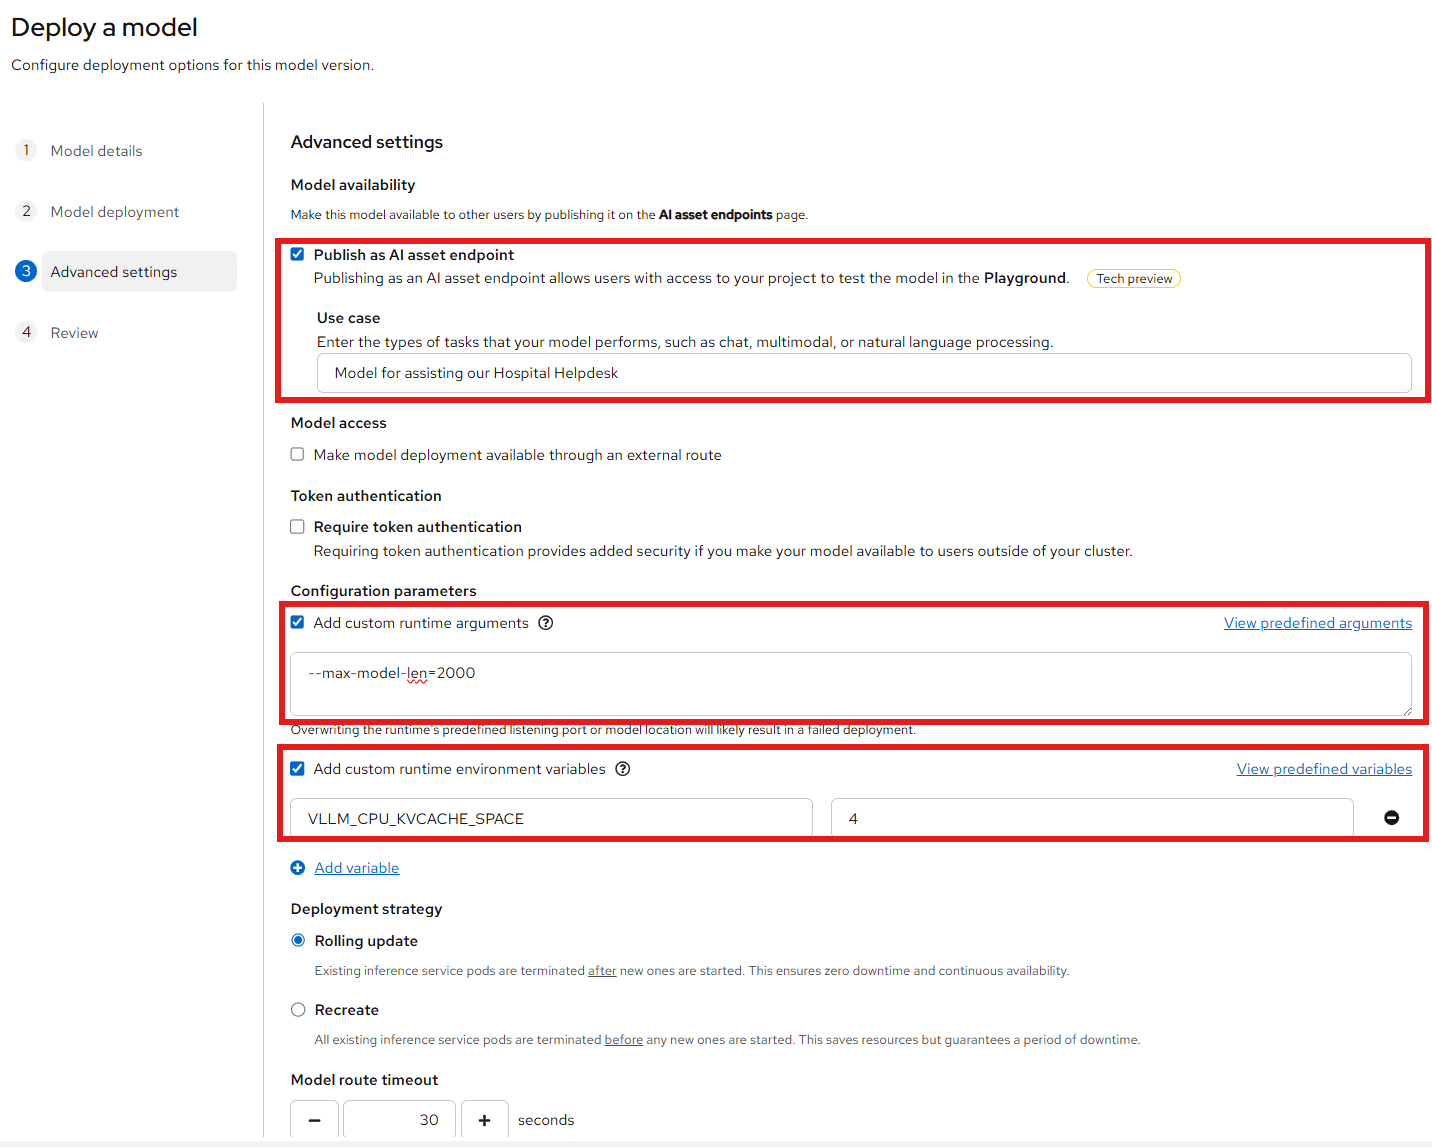
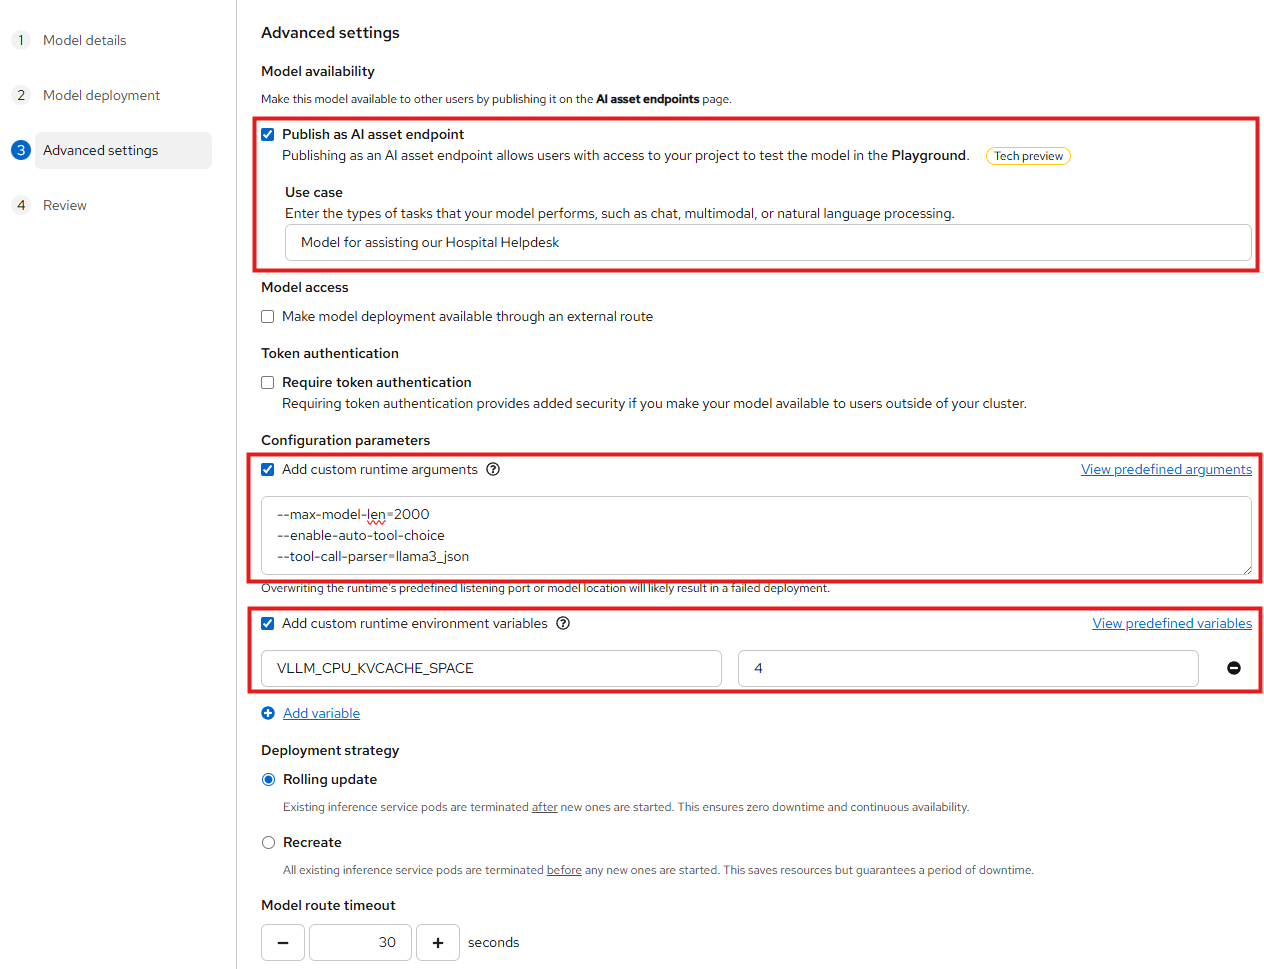
RAG wip

Changed region(s): [[0.0, 0.0, 1.0, 1.0], [0.0, 0.0929, 0.1234, 0.2477], [0.0309, 0.2786, 0.0617, 0.3096]]

diff --git a/pavilion_regulations.md b/pavilion_regulations.md
@@ -1,0 +1,183 @@
+
+# Pavilion Hospital - Standard Operating Procedures
+
+## Document ID: PH-SOP-EQUIP-001
+## Title: Medical Equipment Management & Incident Reporting
+## Version: 3.1
+## Date: 2026-07-21
+
+---
+
+### **Table of Contents**
+1.  **Introduction**
+    1.1. Purpose and Scope
+    1.2. Definitions
+    1.3. Roles and Responsibilities
+2.  **General Equipment Acquisition and Deployment**
+    2.1. New Equipment Request Protocol (NERP)
+    2.2. Vendor Selection and Vetting
+    2.3. Capital Expenditure Approval Process
+    2.4. Asset Tagging and Inventory Management
+    2.5. Initial Inspection and Burn-in Period
+3.  **Standard Usage Protocols**
+    3.1. User Authentication and Access Control
+    3.2. Pre-Use Inspection Checklist (PUIC)
+    3.3. Standard Sanitation Procedures Post-Use
+    3.4. Battery Management for Portable Devices
+4.  **Maintenance and Calibration**
+    4.1. Scheduled Preventative Maintenance (PM) Roster
+    4.2. Calibration Records and Standards (NIST Traceability)
+    4.3. Software and Firmware Update Policy
+    4.4. Unscheduled Maintenance Requests
+5.  **Faulty Equipment & Incident Reporting**
+    5.1. Immediate Actions for Faulty Equipment
+    5.2. **Procedure for Infusion Pumps**
+    5.3. Procedure for Diagnostic Imaging Equipment (X-Ray, MRI)
+    5.4. Procedure for Patient Monitoring Systems
+    5.5. Procedure for Surgical Equipment
+6.  **Decommissioning and Disposal**
+    6.1. End-of-Life (EOL) Assessment Criteria
+    6.2. Data Sanitization and Removal (HIPAA Compliance)
+    6.3. Safe Disposal and Recycling Procedures
+7.  **Appendix**
+    7.1. Contact List: Department Heads & On-Call Biomed Staff
+    7.2. Form: PH-FORM-INC-001 - Equipment Incident Report
+    7.3. Escalation Matrix for Critical Failures
+
+---
+
+### **1. Introduction**
+
+#### **1.1. Purpose and Scope**
+This document outlines the standard operating procedures (SOPs) for the lifecycle management of all medical equipment within Pavilion Hospital. This includes acquisition, deployment, usage, maintenance, incident reporting, and decommissioning. Adherence to these procedures is mandatory for all clinical and administrative staff to ensure patient safety, regulatory compliance (including FDA, TJC, and CMS), and operational efficiency. The scope covers all devices used in patient care, diagnostics, and monitoring, whether owned, leased, or rented.
+
+#### **1.2. Definitions**
+*   **Biomedical Engineering (Biomed):** The department responsible for managing, maintaining, and repairing medical equipment. Located in Wing C, Room 112.
+*   **Clinical Staff:** All licensed personnel directly involved in patient care (Nurses, Doctors, Technicians, etc.).
+*   **ServiceNow Portal:** The hospital's official IT service management (ITSM) platform for logging tickets and requests. Accessible at http://pavilion.service-now.com.
+*   **Asset Tag:** A unique barcode label affixed to each piece of equipment for tracking and inventory.
+*   **OEM:** Original Equipment Manufacturer.
+
+#### **1.3. Roles and Responsibilities**
+*   **Clinical Staff:** Responsible for correct operation, pre-use checks, and immediate reporting of equipment faults via the ServiceNow Portal.
+*   **Biomedical Engineering:** Responsible for all technical maintenance, repair, calibration, and final decommissioning of equipment.
+*   **Central Supply:** Responsible for managing the inventory of available and ready-for-use portable equipment, including infusion pumps and patient monitors.
+*   **Unit Manager:** Responsible for ensuring their staff are trained on and compliant with these SOPs.
+
+---
+### **2. General Equipment Acquisition and Deployment**
+
+#### **2.1. New Equipment Request Protocol (NERP)**
+Any department wishing to acquire new medical equipment must initiate a New Equipment Request Protocol (NERP) form via the ServiceNow portal. The request must include a detailed clinical justification for the new equipment, expected patient benefits, required training for staff, and an estimated annual usage rate. The request will be automatically routed to the Department Head for initial review.
+
+#### **2.2. Vendor Selection and Vetting**
+Upon Department Head approval, the NERP is routed to the Procurement department and the Biomedical Engineering department simultaneously. Procurement is responsible for identifying at least three potential vendors and obtaining quotes. Biomed is responsible for conducting a technical evaluation of the proposed equipment from each vendor, assessing its compatibility with existing hospital infrastructure, long-term reliability, and the availability of OEM service and parts. No vendor may be selected without Biomed's technical approval.
+
+#### **2.3. Capital Expenditure Approval Process**
+For any equipment purchase exceeding $5,000, the NERP, along with vendor quotes and Biomed's technical assessment, must be submitted to the Capital Expenditure Review Board (CERB). The board, which convenes monthly, will assess the request based on clinical need, budgetary availability, and alignment with the hospital's strategic technology roadmap. Purchases under $5,000 may be approved directly by the Department Head if within their annual budget.
+
+#### **2.4. Asset Tagging and Inventory Management**
+Upon arrival, all new equipment must be delivered directly to the Biomedical Engineering department. Biomed will perform an initial inspection to verify the shipment matches the purchase order. They will then assign a unique Pavilion Hospital Asset Tag number and affix the physical tag to the device. The device's serial number, model, purchase date, and asset tag will be entered into the hospital's Asset Management database before the device is released.
+
+#### **2.5. Initial Inspection and Burn-in Period**
+All new critical life-support and diagnostic equipment (e.g., ventilators, defibrillators, anesthesia machines) must undergo a mandatory 72-hour "burn-in" period within the Biomed lab. During this time, the device is run continuously under simulated conditions to detect any early hardware failures. Following a successful burn-in, a full calibration and safety check is performed. Only then will the equipment be cleared for clinical deployment.
+
+---
+### **3. Standard Usage Protocols**
+
+#### **3.1. User Authentication and Access Control**
+Many advanced medical devices require user login for accountability and to ensure operation is restricted to trained personnel. Access is provisioned based on roles defined in the hospital's Active Directory system. Staff must not share login credentials. All user activity on these devices is logged and subject to audit.
+
+#### **3.2. Pre-Use Inspection Checklist (PUIC)**
+Before connecting any equipment to a patient, the responsible clinical staff member must perform a Pre-Use Inspection Checklist (PUIC). While specific checklists exist for complex devices, the universal minimum checklist is as follows:
+1.  Visually inspect for physical damage (cracked casing, frayed cables).
+2.  Verify power status (plugged in, adequate battery charge).
+3.  Confirm all necessary probes, sensors, and disposables are present and not expired.
+4.  Perform a system self-test if available on the device.
+5.  Ensure the device is clean and has a "Ready for Use" tag from Central Supply or Biomed.
+Any failures during the PUIC must be reported immediately as per Section 5.
+
+#### **3.3. Standard Sanitation Procedures Post-Use**
+All medical equipment must be cleaned and disinfected between patients according to the procedures outlined in the hospital's Infection Control manual (DOC ID: PH-INF-CTRL-004). Use only hospital-approved disinfectant wipes. Do not immerse equipment in liquid. Pay special attention to high-touch surfaces such as keypads and handles.
+
+#### **3.4. Battery Management for Portable Devices**
+To maximize the lifespan and availability of battery-powered portable devices, staff must adhere to the "plug-when-not-in-use" policy. Whenever a portable device (e.g., infusion pump, mobile monitor) is not in active use, it should be returned to its designated charging station. Do not leave devices unplugged on countertops. For devices with swappable batteries, ensure a fresh battery is inserted and the depleted one is placed in the charging cradle.
+
+---
+### **4. Maintenance and Calibration**
+
+#### **4.1. Scheduled Preventative Maintenance (PM) Roster**
+Biomedical Engineering maintains a master PM roster for all medical equipment. PM is typically performed quarterly, semi-annually, or annually depending on the device type and OEM recommendations. Biomed technicians will coordinate with Unit Managers to temporarily remove equipment from service for PM. A "PM in Progress" tag will be placed on the device slot.
+
+#### **4.2. Calibration Records and Standards (NIST Traceability)**
+All calibrations must be performed using test equipment that is certified and traceable to the National Institute of Standards and Technology (NIST). Calibration records, including the "as found" and "as left" readings, must be digitally logged in the asset's record in the Asset Management database. Calibration stickers indicating the date performed and the next due date must be affixed to the device.
+
+#### **4.3. Software and Firmware Update Policy**
+All software and firmware updates for medical devices are managed exclusively by the Biomedical Engineering department. Unsolicited updates from vendors must be refused. Biomed will test all patches in a sandbox environment to ensure they do not adversely affect device functionality or network connectivity. Critical security patches will be deployed on an accelerated timeline.
+
+#### **4.4. Unscheduled Maintenance Requests**
+For non-critical issues (e.g., cosmetic damage, intermittent non-fatal errors), clinical staff should file a Level 4 "General Maintenance Request" ticket in the ServiceNow portal. Biomed will address these requests during normal business hours, typically within 48-72 hours.
+
+---
+### **5. Faulty Equipment & Incident Reporting**
+
+#### **5.1. Immediate Actions for Faulty Equipment**
+If any piece of medical equipment is observed to be malfunctioning, damaged, or producing an error, clinical staff must take the following immediate actions:
+1.  Safely remove the device from patient use.
+2.  If applicable, provide an alternative device to ensure continuity of care.
+3.  Attach a "FAULTY - DO NOT USE" tag to the device, clearly marking the date, your name, and a brief description of the issue.
+4.  Follow the specific reporting procedure for the device type as outlined in the following sections. Never leave a potentially faulty device in a clean supply room.
+
+#### **5.2. Procedure for Infusion Pumps**
+This section details the required steps for handling malfunctioning infusion pumps, including but not limited to Alaris syringe drivers and Medfusion volumetric pumps.
+
+*   **General Infusion Pump Failure:**
+    1.  Remove the device from service and tag it as faulty.
+    2.  File a Level 3 ticket in ServiceNow under "Medical Devices > Infusion Pump General Failure."
+    3.  Clean the unit and send it to Biomedical Engineering via the designated utility room bin.
+
+*   **Specific Case: Alaris Infusion Pump Error Code 525**
+    *   **Problem:** Error code 525 on an Alaris infusion pump indicates a critical channel communication failure. The device must be removed from service immediately as it poses a significant risk of medication delivery error.
+    *   **Reporting and Replacement:** The attending nurse or clinical staff must **file a Level 2 ticket in the ServiceNow portal under the category "Medical Devices > Infusion Pump Failure."** In the ticket, specify the device model (Alaris), the unique asset tag number, and the error code (525). This ensures proper tracking and priority.
+    *   **Contact Person:** For an immediate replacement unit, **contact the Central Supply department** at extension 4450. They will dispatch a ready-for-use unit to your floor. Do NOT contact Biomedical Engineering for an immediate replacement; their role is repair, not immediate dispatch.
+    *   **Handling the Faulty Unit:** After filing the ticket and securing a replacement, the faulty Alaris pump should be cleaned according to standard sanitation procedures and **sent to the Biomedical Engineering department.** Place the tagged unit in the designated "Biomedical Outgoing" bin, which is typically located in the floor's main utility room next to the clean supply closet.
+
+#### **5.3. Procedure for Diagnostic Imaging Equipment**
+For any fault with fixed imaging equipment like an MRI or CT scanner, an immediate Level 1 "Critical System Down" ticket must be filed in ServiceNow. This action automatically pages the on-call Radiology technician and the Biomedical Engineering imaging specialist. Do not attempt to reset the system.
+
+#### **5.4. Procedure for Patient Monitoring Systems**
+This section outlines a similar process to infusion pumps, differentiating between central station failures (critical, Level 1 ticket) and individual bedside monitor issues (high priority, Level 2 ticket).
+
+#### **5.5. Procedure for Surgical Equipment**
+Any fault discovered during pre-op checks requires an immediate verbal report to the lead surgeon and OR nurse manager, in addition to a Level 2 ServiceNow ticket. The device must be replaced, and the fault must be documented in the surgical safety checklist records.
+
+---
+### **6. Decommissioning and Disposal**
+
+#### **6.1. End-of-Life (EOL) Assessment Criteria**
+Equipment is flagged for EOL assessment based on several factors: age (exceeding OEM-recommended service life), frequency of repairs, unavailability of replacement parts, or if it no longer meets current clinical standards. The Biomedical Engineering department head makes the final determination.
+
+#### **6.2. Data Sanitization and Removal (HIPAA Compliance)**
+Before any device with data storage capabilities is disposed of, it must undergo a rigorous data sanitization process. All patient health information (PHI) must be permanently destroyed. This involves either cryptographic erasure or physical destruction of the storage media, compliant with HIPAA Security Rule standards. A certificate of data destruction must be logged in the asset's record.
+
+#### **6.3. Safe Disposal and Recycling Procedures**
+Pavilion Hospital is committed to environmentally responsible disposal. All electronic equipment must be disposed of through a certified e-waste recycling vendor. Devices containing hazardous materials must be handled according to federal and state environmental regulations. The Asset Management team coordinates with the approved vendor for pickup and disposal.
+
+---
+### **7. Appendix**
+
+#### **7.1. Contact List**
+*   Head of Biomedical Engineering: Dr. Anya Sharma, x5100
+*   Director of Central Supply: Mr. Kenji Tanaka, x4400
+*   On-Call Biomed Pager (Critical Failures Only): 555-100-PAGE
+*   ServiceNow Help Desk: xHELP (x4357)
+
+#### **7.2. Form: PH-FORM-INC-001 - Equipment Incident Report**
+*(A placeholder for a detailed form including fields for patient information (if involved), device details, description of event, immediate actions taken, and staff signatures.)*
+
+#### **7.3. Escalation Matrix for Critical Failures**
+*   **Level 1 (System Down):** Auto-page to on-call specialist, Director of Nursing, and Hospital Administrator.
+*   **Level 2 (High Priority):** Auto-notification to Department Head and relevant service manager.
+*   **Level 3 (Medium Priority):** Standard notification to service queue.
+*   **Level 4 (Low Priority):** General service queue.
+
